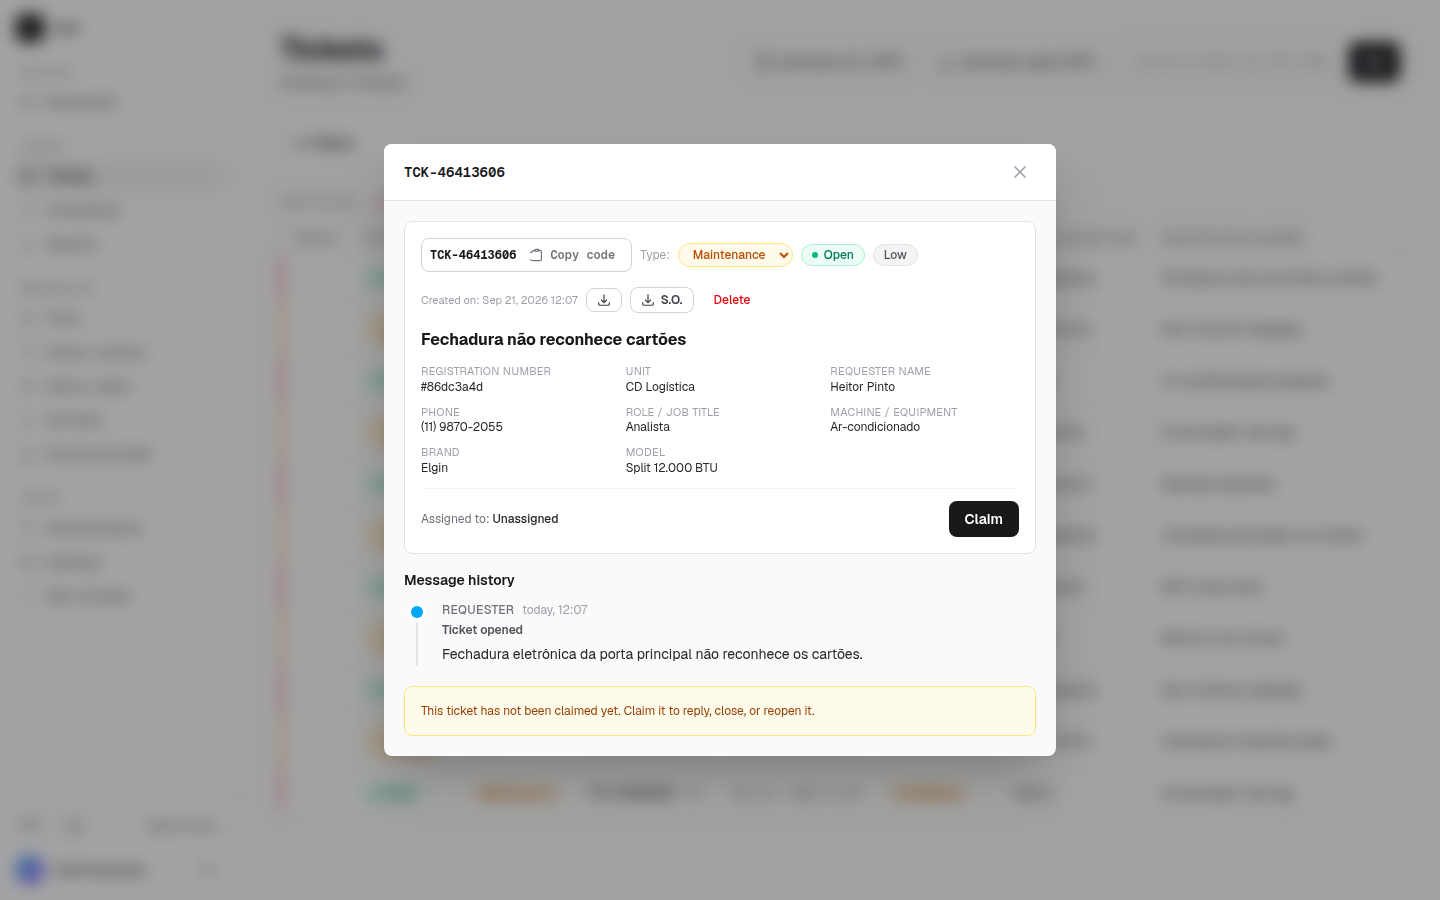
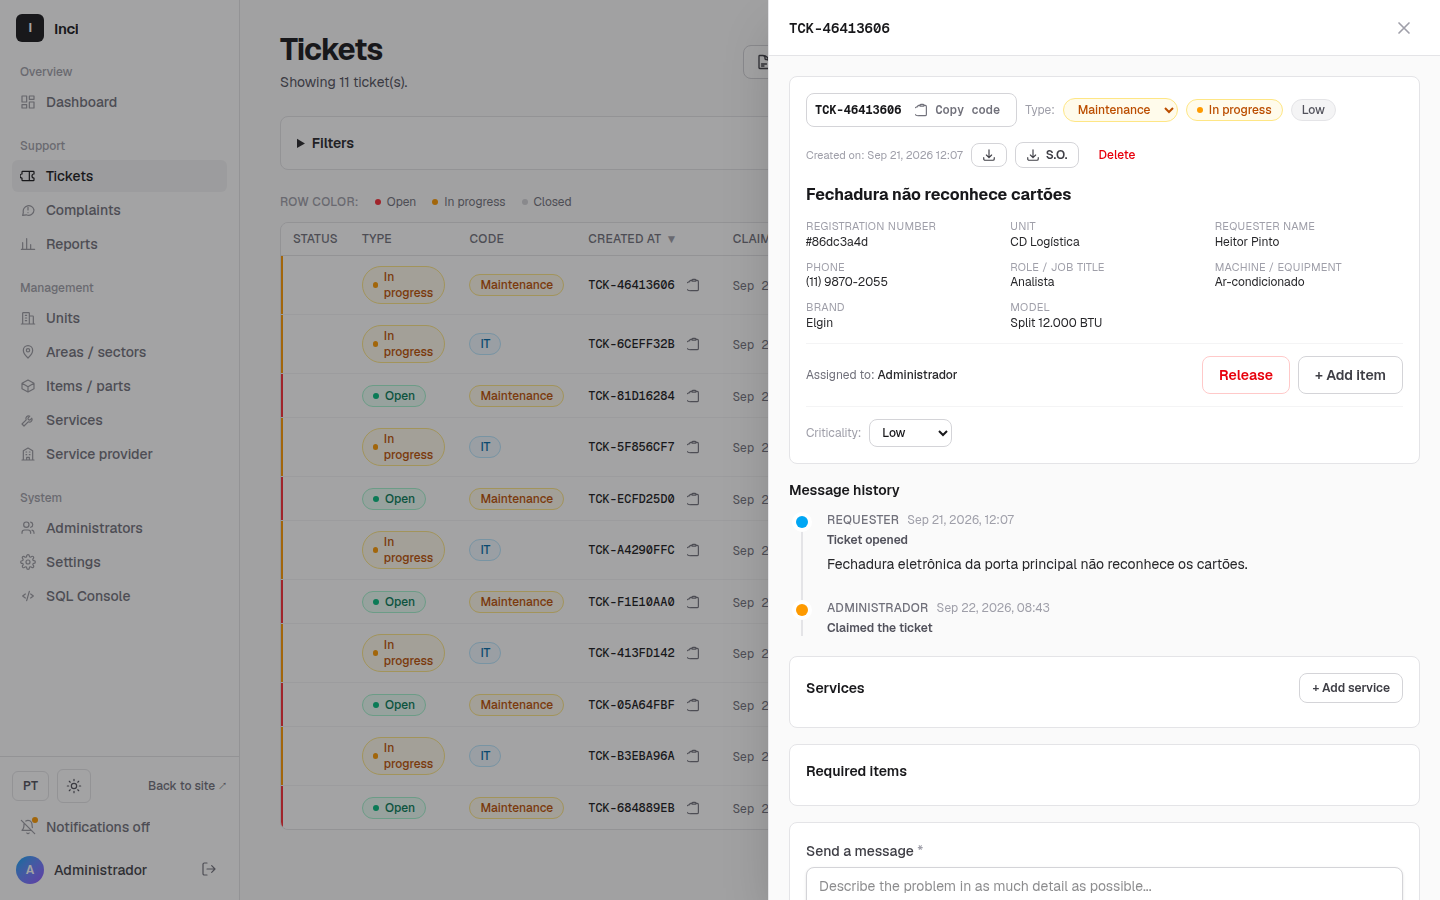
docs: retake admin screenshots and add the notifications prompt
Ticket detail now shows the side drawer.

diff --git a/README.md b/README.md
@@ -160,10 +160,14 @@ node --experimental-strip-types --loader ./scripts/ts-resolve-hook.mjs scripts/s
 |---|---|
 | **Open ticket** — matrícula, type, unit, area, and attachments | **Admin dashboard** — sidebar navigation and an overview filterable by period, type, and unit |
 | ![Open ticket](docs/screenshots/new-ticket.png) | ![Admin dashboard](docs/screenshots/admin-dashboard.png) |
-| **Ticket list** — dense table with status, type, unit, and matrícula | **Ticket detail** — type reassignment, deletion, message history |
+| **Ticket list** — dense table with status, type, unit, and matrícula | **Ticket detail** — opens as a side panel over the list; type reassignment, deletion, message history |
 | ![Ticket list](docs/screenshots/admin-tickets.png) | ![Ticket detail](docs/screenshots/admin-ticket-detail.png) |
 | **Units** — each can be linked to a service-provider company | **Service-provider companies** — multiple companies, shown on the PDF O.S. |
 | ![Units](docs/screenshots/admin-units.png) | ![Service-provider companies](docs/screenshots/admin-company.png) |
+
+Browser notifications — admins are asked to enable them and are then told about new tickets and requester replies, in their own language:
+
+![Notifications prompt](docs/screenshots/admin-notifications.png)
 
 Dark mode:
 
